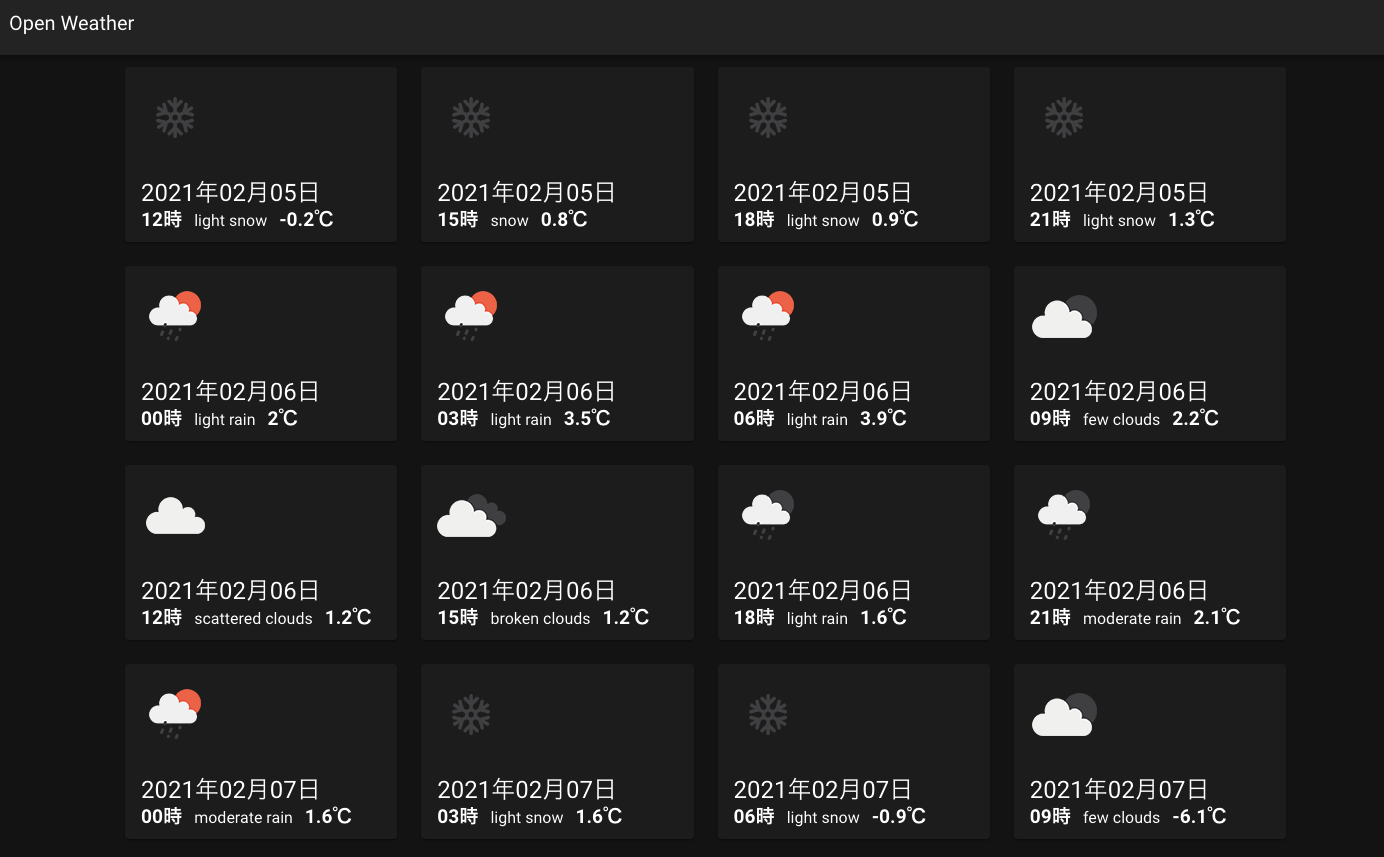
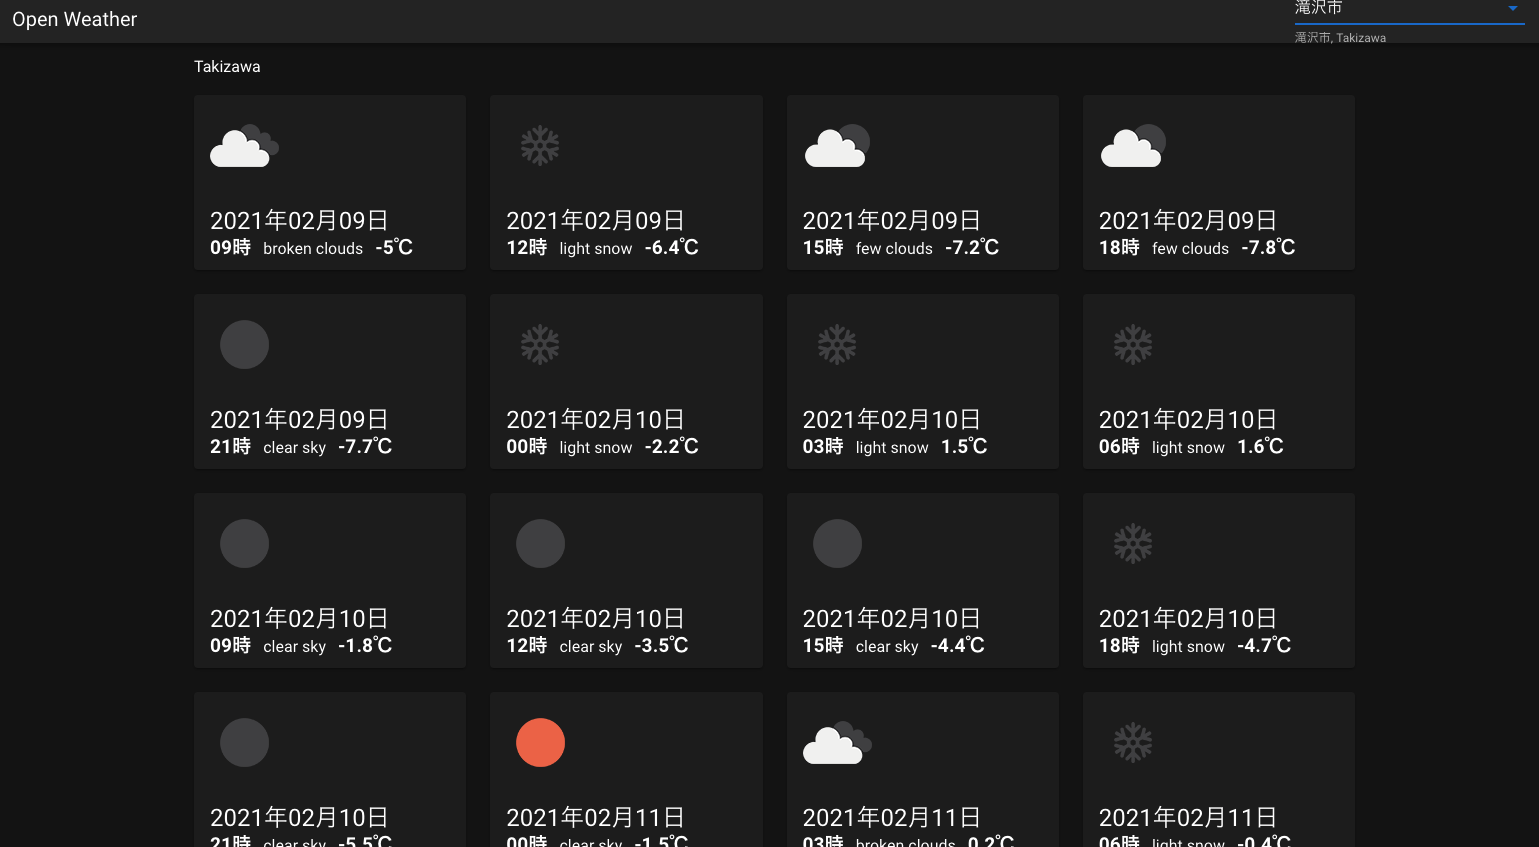
場所をセレクトできるようにした

diff --git a/components/SelectPlaces.vue b/components/SelectPlaces.vue
@@ -1,0 +1,52 @@
+<template>
+        <v-select
+          @change="handleSelect"
+          v-model="select"
+          :hint="`${select.name}, ${select.code}`"
+          :items="items"
+          item-text="name"
+          item-value="code"
+          label="場所選択"
+          presistent-hint
+          return-object
+          single-line
+        >
+        </v-select>
+</template>
+<script>
+export default {
+  name: "select-places",
+
+  data() {
+    return {
+      fixed: true,
+      title: "Open Weather",
+      select: {name: '滝沢市', code: 'Takizawa'},
+      items: [
+        { name: '札幌', code: 'Sapporo' },
+        { name: '滝沢市', code: 'Takizawa' },
+        { name: '東京', code: 'Tokyo' },
+        { name: '大阪', code: 'Osaka' },
+        { name: '高知市', code: 'Kochi' },
+        { name: '佐賀市', code: 'Saga' },
+        { name: '那覇市', code: 'Naha' },
+        { name: '高知市', code: 'Kochi' },
+        { name: 'Los Angeles', code: 'Los Angeles' },
+        { name: 'New York', code: 'New York' },
+        { name: 'London', code: 'London' },
+      ],
+    }
+  },
+
+  methods: {
+    async handleSelect() {
+      let url = `https://api.openweathermap.org/data/2.5/forecast?q=${this.select.code}&APPID=${process.env.API_KEY}`
+      await this.$axios.get(url)
+            .then(res => {
+              this.$nuxt.context.store.commit('initForecasts', res.data)
+            })
+    }
+  }
+
+}
+</script>

diff --git a/layouts/default.vue b/layouts/default.vue
@@ -1,13 +1,19 @@
 <template>
   <v-app dark>
     <v-app-bar
+      dense
       fixed
       app
     >
       <v-toolbar-title v-text="title" />
+      <v-spacer></v-spacer>
+      <v-col cols="2">
+        <SelectPlaces />
+      </v-col>
     </v-app-bar>
     <v-main>
       <v-container>
+        <p>{{ city }}</p>
         <nuxt />
       </v-container>
     </v-main>
@@ -21,12 +27,25 @@
 </template>
 
 <script>
+import SelectPlaces from '../components/SelectPlaces'
 export default {
-  data () {
+  name: "layouts",
+  components: {
+    SelectPlaces
+  },
+
+  computed: {
+    city() {
+      return this.$store.state.city
+    }
+  },
+  data() {
     return {
-      fixed: true,
-      title: 'Open Weather'
+      title: 'Open Weather',
+      fixed: false
     }
   }
+
+
 }
 </script>

diff --git a/store/index.js b/store/index.js
@@ -1,13 +1,15 @@
 import moment from 'moment'
 
 export const state = () => ({
+  city: '',
   forecasts: new Array(),
 })
 
 export const mutations = {
-  initForecasts(state, fores) {
+  initForecasts(state, data) {
     state.forecasts = new Array()
-    fores.forEach((elem) => state.forecasts.push(elem))
+    data.list.forEach((elem) => state.forecasts.push(elem))
+    state.city = data.city.name
   },
 }
 
@@ -39,6 +41,11 @@ export const getters = {
   getDescription(state) {
     return function (index) {
       return state.forecasts[index].weather[0].description
+    }
+  },
+  getCity() {
+    return function () {
+      return state.city
     }
   },
 }

diff --git a/pages/index.vue b/pages/index.vue
@@ -30,7 +30,7 @@ export default {
   fetch({ $axios, store }) {
     return $axios.get(`https://api.openweathermap.org/data/2.5/forecast?q=Takizawa&APPID=${process.env.API_KEY}`)
     .then(res => {
-      store.commit('initForecasts', res.data.list)
+      store.commit('initForecasts', res.data)
     })
   },
 }
